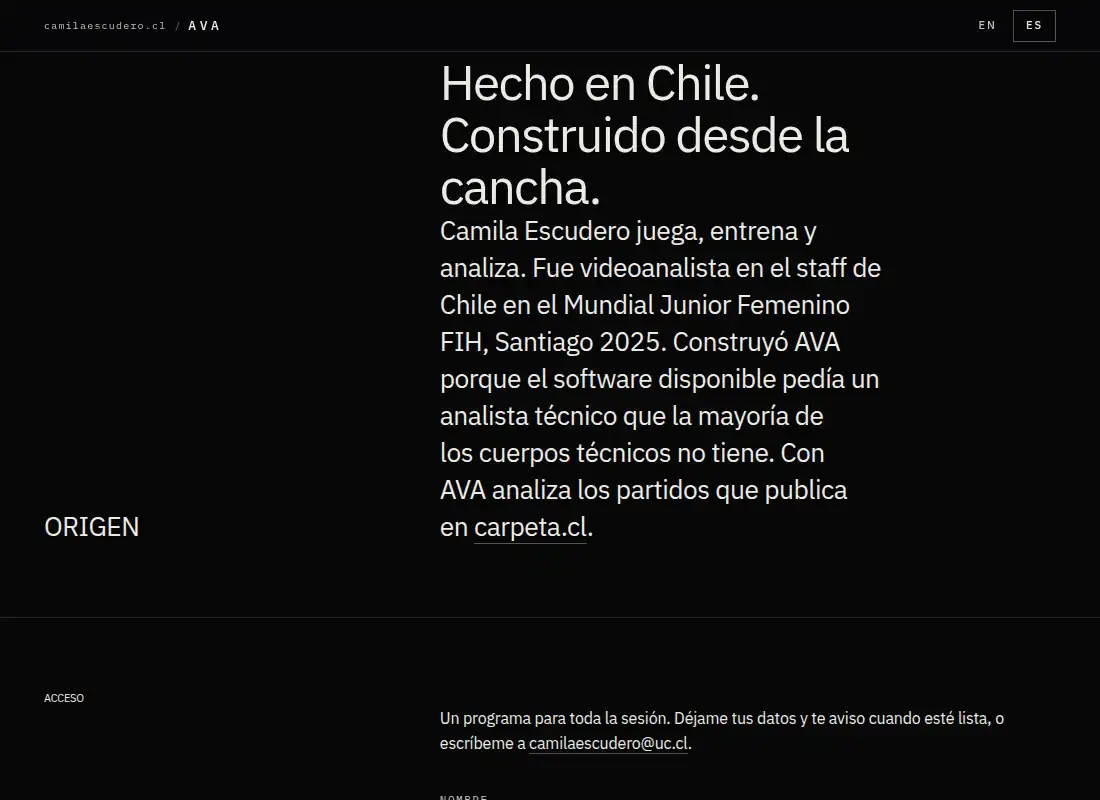
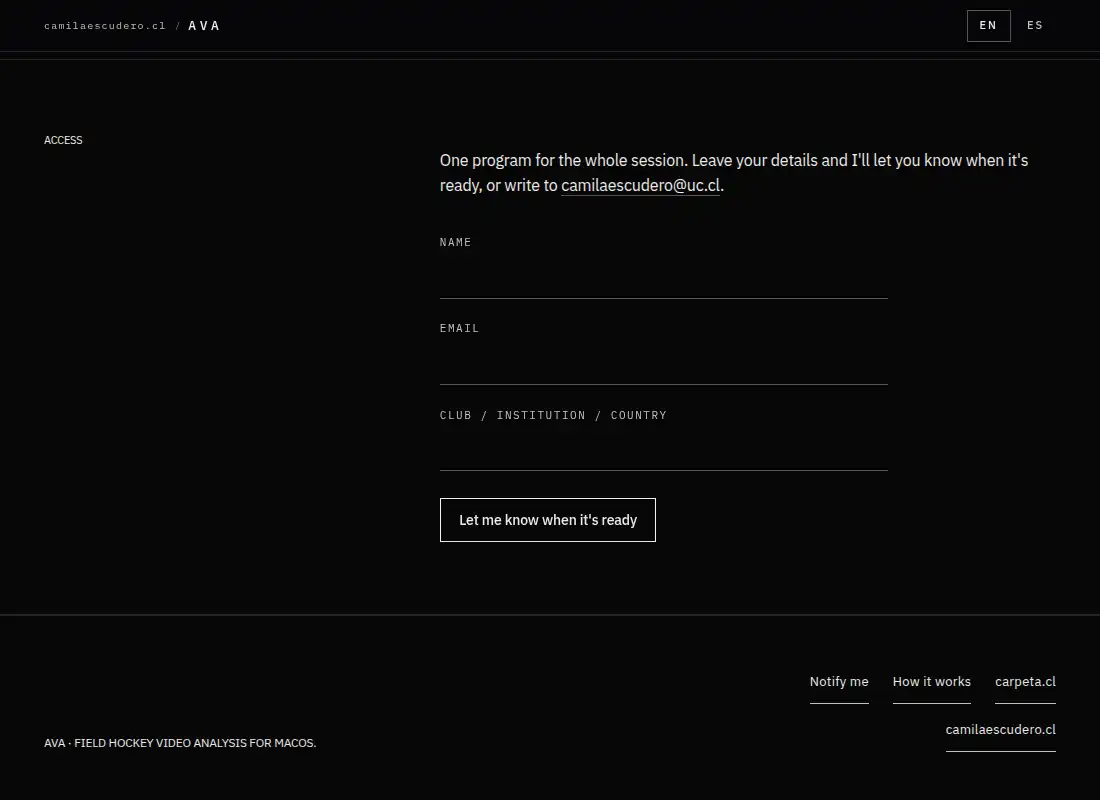
Keep the site language on AVA and let the fleet title wrap.
The English home page no longer switches the interest form to Spanish, and the growth CV title uses the full line on a narrow screen.

diff --git a/src/pages/CV.tsx b/src/pages/CV.tsx
@@ -25,7 +25,7 @@ function CvProjectEntry({ project }: { project: CvProject }) {
 
   return (
     <div>
-      <div className="mb-1 flex items-baseline justify-between gap-2">
+      <div className="mb-1 flex w-full flex-col gap-1 sm:flex-row sm:items-baseline sm:justify-between sm:gap-2">
         {project.href && project.externalHref ? (
           <p className="flex min-w-0 flex-wrap items-center gap-x-2 text-sm font-medium text-foreground">
             <Link to={project.href} className={pairedLinkClassName}>
@@ -45,9 +45,13 @@ function CvProjectEntry({ project }: { project: CvProject }) {
             {t(project.titleKey)}
           </a>
         ) : (
-          <p className="text-sm font-medium text-foreground">{t(project.titleKey)}</p>
+          <p className="w-full text-sm font-medium leading-relaxed text-foreground sm:min-w-0 sm:flex-1">
+            {t(project.titleKey)}
+          </p>
         )}
-        <span className="shrink-0 font-mono text-xs text-muted-foreground">{t(project.typeKey)}</span>
+        <span className="font-mono text-xs text-muted-foreground sm:max-w-[40%] sm:shrink-0 sm:text-right">
+          {t(project.typeKey)}
+        </span>
       </div>
       <p
         className={

diff --git a/src/lib/languageRouting.test.ts b/src/lib/languageRouting.test.ts
@@ -1,0 +1,20 @@
+import { describe, expect, it } from "vitest";
+import { languageAfterNavigation } from "@/lib/languageRouting";
+
+describe("language after navigation", () => {
+  it("keeps the English site language on /ava when nothing has been saved", () => {
+    expect(languageAfterNavigation(null, "en", "/ava", "es")).toBe("en");
+    expect(languageAfterNavigation(null, "en", "/ava/", "es")).toBe("en");
+  });
+
+  it("keeps a saved choice, and leaves a first visit to /ava in Spanish", () => {
+    expect(languageAfterNavigation("es", "en", "/ava", "en")).toBe("es");
+    expect(languageAfterNavigation("en", "es", "/", "es")).toBe("en");
+    expect(languageAfterNavigation(null, "es", "/ava", "en")).toBe("es");
+  });
+
+  it("still uses the path default away from /ava", () => {
+    expect(languageAfterNavigation(null, "es", "/", "es")).toBe("en");
+    expect(languageAfterNavigation(null, "en", "/concat", "es")).toBe("es");
+  });
+});

diff --git a/src/lib/languageRouting.ts b/src/lib/languageRouting.ts
@@ -1,0 +1,28 @@
+import type { Language } from "@/i18n/types";
+
+function isConcatPath(pathname: string): boolean {
+  return pathname === "/concat" || pathname.startsWith("/concat/");
+}
+
+/**
+ * A cold visit to /ava stays Spanish. A visitor who is already reading the site
+ * keeps that language, including the English home page, which does not write
+ * a saved choice until the toggle is used.
+ */
+export function languageAfterNavigation(
+  saved: Language | null,
+  current: Language,
+  pathname: string,
+  deviceLanguage: Language,
+): Language {
+  if (saved) {
+    return saved;
+  }
+  if (pathname.startsWith("/ava")) {
+    return current;
+  }
+  if (isConcatPath(pathname)) {
+    return deviceLanguage;
+  }
+  return "en";
+}

diff --git a/src/contexts/LanguageContext.tsx b/src/contexts/LanguageContext.tsx
@@ -3,6 +3,7 @@ import { useLocation } from "react-router-dom";
 import en from "@/i18n/en";
 import es from "@/i18n/es";
 import type { Language, TranslationKey } from "@/i18n/types";
+import { languageAfterNavigation } from "@/lib/languageRouting";
 
 const LANGUAGE_STORAGE_KEY = "language";
 
@@ -74,10 +75,9 @@ export const LanguageProvider = ({ children }: { children: ReactNode }) => {
   };
 
   useEffect(() => {
-    if (readSavedLanguage()) {
-      return;
-    }
-    setLanguageState(defaultLanguageForPath(location.pathname));
+    setLanguageState((current) =>
+      languageAfterNavigation(readSavedLanguage(), current, location.pathname, languageFromDevice()),
+    );
   }, [location.pathname]);
 
   useEffect(() => {
